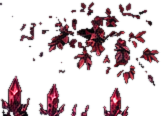
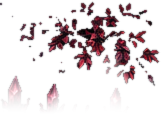
art: Regiao I sem o corte a direito da copa no topo do ecra
Os ramos/ramo_curvo do primeiro plano saiam da prancha com a folhagem
cortada na borda de baixo do recorte (39% da ultima linha opaca); no jogo
via-se uma linha horizontal no topo do ecra em N1-N5. Degrade ondulado
na borda de baixo, no produzir_l1_hybrid_9h12e.py.

Claude-Session: https://claude.ai/code/session_011efXuucEbv3HBtwL9xQxi7

diff --git a/tools/produzir_l1_hybrid_9h12e.py b/tools/produzir_l1_hybrid_9h12e.py
@@ -144,6 +144,23 @@ def esbater_baixo(p, frac=0.22):
 	return p
 
 
+def esbater_baixo_ondulado(p, frac=0.35):
+	"""Como o `esbater_baixo`, mas a altura do degradê varia por coluna.
+	29 set 2026: os `ramos`/`ramo_curvo` saíam da prancha com a folhagem
+	cortada a direito na borda de baixo do recorte (39% da última linha
+	opaca), e no jogo lia-se uma linha horizontal no topo do ecrã."""
+	w, h = p.size
+	px = p.load()
+	for x in range(w):
+		n = max(1, int(h * frac * _onda(x, w, 0.30, 2.3)))
+		for i in range(min(n, h)):
+			y = h - 1 - i
+			f = i / n
+			r, g, b, a = px[x, y]
+			px[x, y] = (r, g, b, int(a * f * f))
+	return p
+
+
 def limpar_alfa(p, mediana=3, desfoque=0.7):
 	"""Mata a serrilha/franja preta: mediana no alfa e um fio de desfoque."""
 	r, g, b, a = p.split()
@@ -288,7 +305,10 @@ CARVAO = {
 }
 for nome, caixa in CARVAO.items():
 	p = matte_carvao(IM.crop(caixa))
-	guardar(limpar_alfa(p, 3, 0.6), 'elementos', nome, list(caixa))
+	p = limpar_alfa(p, 3, 0.6)
+	if nome in ('ramos', 'ramo_curvo'):  # copa pendurada: cortada em baixo
+		p = esbater_baixo_ondulado(p, 0.40)
+	guardar(p, 'elementos', nome, list(caixa))
 
 # ------------------------------------------------------- terreno HD --------
 # Recortes NATIVOS 1:1 das colunas de rocha da prancha (linha 4). Sem upscale:
